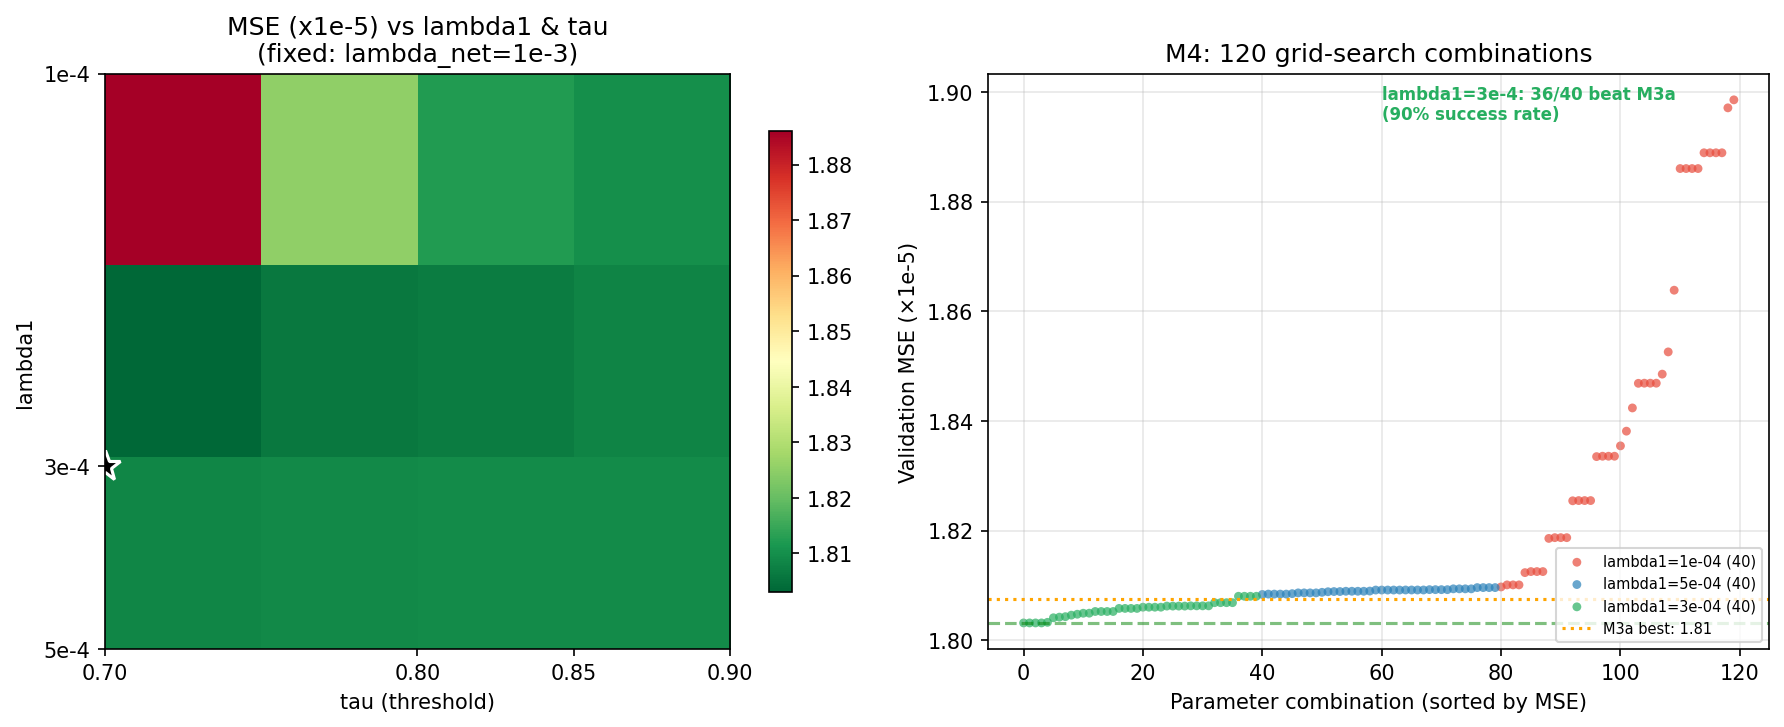
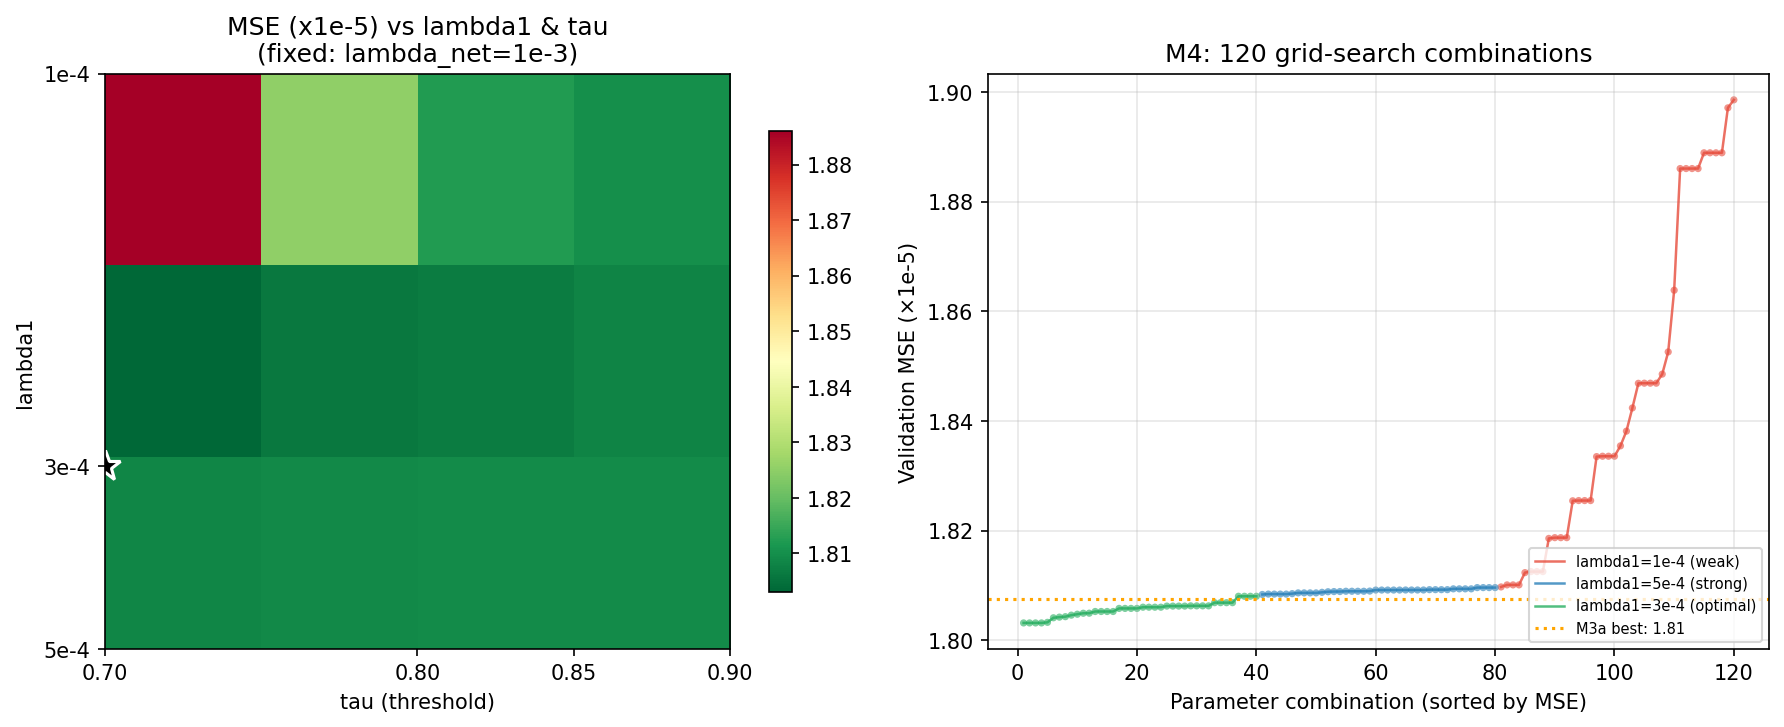
Comment3: 右图改折线, 文档+图同步更新

diff --git a/消融分析/plot_sensitivity_combined.py b/消融分析/plot_sensitivity_combined.py
@@ -36,28 +36,21 @@ opt_lam = float(best['LAMBDA_LASSO'])
 ax.plot(opt_tau, np.log10(opt_lam), 'k*', markersize=15, markeredgewidth=1.5, 
         markeredgecolor='white')
 
-# ====== RIGHT: 按 MSE 排序, 颜色区分 λ₁ 组别 ======
+# ====== RIGHT: 排序折线, 颜色区分 λ₁ 组, 附 M3a 参照线 ======
 ax = axes[1]
-colors = {1e-4: '#e74c3c', 3e-4: '#27ae60', 5e-4: '#2980b9'}
 m4_sorted = m4.sort_values('mean_val_mse').reset_index(drop=True)
-x = range(len(m4_sorted))
-for lam in [1e-4, 5e-4, 3e-4]:
+for lam, c, lb in [(1e-4, '#e74c3c', 'lambda1=1e-4 (weak)'), 
+                      (5e-4, '#2980b9', 'lambda1=5e-4 (strong)'),
+                      (3e-4, '#27ae60', 'lambda1=3e-4 (optimal)')]:
     mask = m4_sorted['LAMBDA_LASSO'] == lam
-    ax.scatter([i for i, m in enumerate(mask) if m], 
-               m4_sorted.loc[mask, 'mse_scaled'],
-               c=colors[lam], s=18, alpha=0.7, edgecolors='none',
-               label=f'lambda1={lam:.0e} ({mask.sum()})')
+    vals = m4_sorted.loc[mask, 'mse_scaled'].values
+    # Connect points within same lambda group
+    idx = np.where(mask)[0]
+    ax.plot(idx + 1, vals, color=c, linewidth=1.2, alpha=0.8, label=lb)
+    ax.scatter(idx + 1, vals, color=c, s=12, alpha=0.6, edgecolors='none')
 
-ax.axhline(y=m4_sorted['mse_scaled'].iloc[0], color='green', linestyle='--', alpha=0.5)
 ax.axhline(y=m3a_best, color='orange', linestyle=':', linewidth=1.5, 
            label=f'M3a best: {m3a_best:.2f}')
-
-# Annotation
-n_best = int(m4_sorted['LAMBDA_LASSO'].eq(3e-4).sum())
-n_beat = int((m4_sorted['mse_scaled'] < m3a_best).sum())
-ax.text(60, 1.895, f'lambda1=3e-4: {n_beat}/{n_best} beat M3a\n(90% success rate)', 
-        fontsize=8, color='#27ae60', fontweight='bold')
-
 ax.set_xlabel('Parameter combination (sorted by MSE)')
 ax.set_ylabel('Validation MSE (\u00d71e-5)')
 ax.set_title('M4: 120 grid-search combinations')